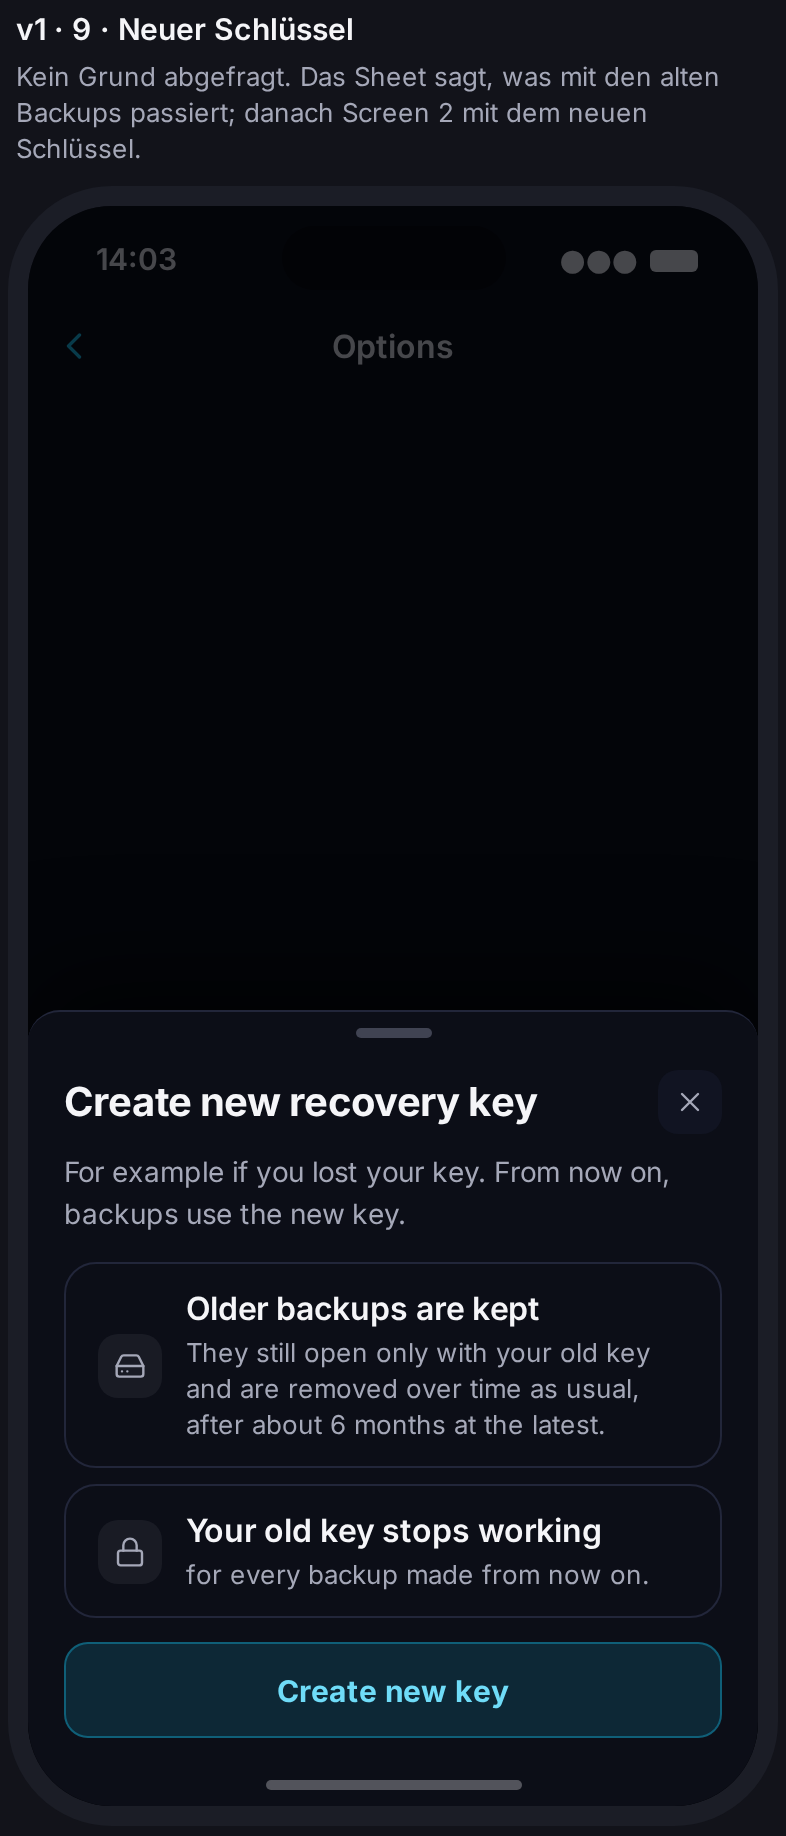
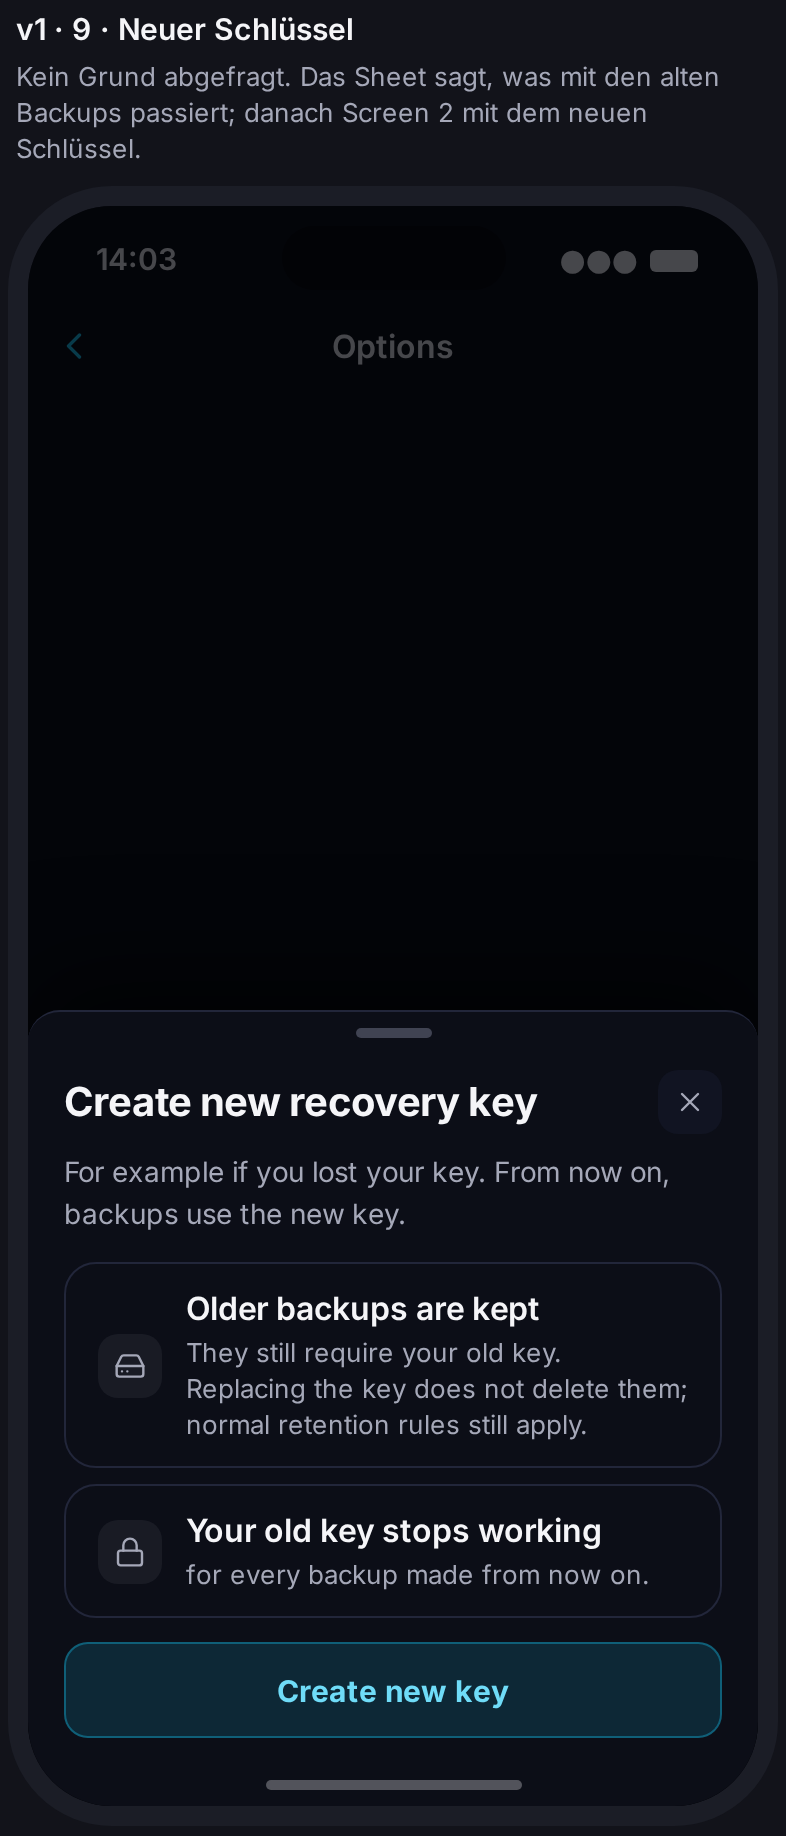
fix(backup): remove unsupported retention deadline from key replacement

Changed region(s): [[0.3359, 0.7141, 0.855, 0.8072], [0.2443, 0.7451, 0.3053, 0.7761]]

diff --git a/docs/assets/backup/app-v1.html b/docs/assets/backup/app-v1.html
@@ -359,7 +359,7 @@
       <div class="shead"><span class="stitle">Create new recovery key</span><span class="sx"><i data-i="x"></i></span></div>
       <div class="ssub">For example if you lost your key. From now on, backups use the new key.</div>
       <div class="stack">
-        <div class="card"><span class="lead tile"><i data-i="hard-drive"></i></span><span class="body"><span class="rt">Older backups are kept</span><span class="sub">They still open only with your old key and are removed over time as usual, after about 6 months at the latest.</span></span></div>
+        <div class="card"><span class="lead tile"><i data-i="hard-drive"></i></span><span class="body"><span class="rt">Older backups are kept</span><span class="sub">They still require your old key. Replacing the key does not delete them; normal retention rules still apply.</span></span></div>
         <div class="card"><span class="lead tile"><i data-i="lock"></i></span><span class="body"><span class="rt">Your old key stops working</span><span class="sub">for every backup made from now on.</span></span></div>
       </div>
       <span class="btn primary full">Create new key</span>

diff --git a/apps/mobile/app/settings/backup-options.tsx b/apps/mobile/app/settings/backup-options.tsx
@@ -129,7 +129,7 @@ function BackupOptionsView({ client }: { client: VerityClient }) {
             <Row
               leading={{ icon: 'hard-drive' }}
               title="Older backups are kept"
-              subtitle="They still open only with your old key and are removed over time as usual, after about 6 months at the latest."
+              subtitle="They still require your old key. Replacing the key does not delete them; normal retention rules still apply."
             />
           </Card>
           <Card flush>
